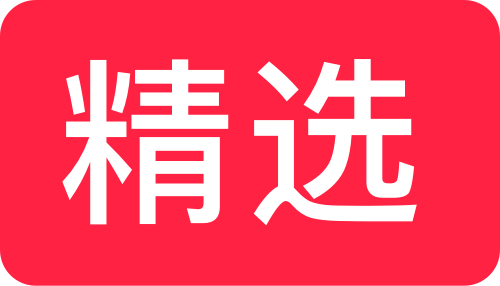
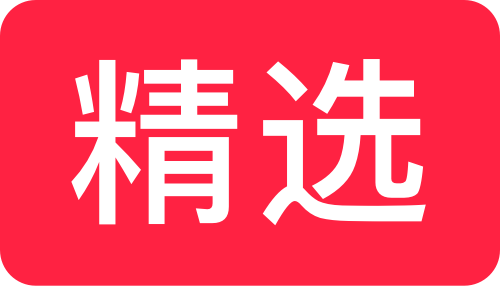
size

diff --git a/src/components/List/double-list.js b/src/components/List/double-list.js
@@ -105,7 +105,7 @@ const SingleItem = props => {
         {props.isTop && (
           <FastImg
             source={TopImage}
-            style={{width: 32, height: 16, position: 'absolute', top: 8, left: 8}}
+            style={{width: 30, height: 17, position: 'absolute', top: 8, left: 8}}
             resizeMode={'contain'}
           />
         )}
@@ -113,7 +113,7 @@ const SingleItem = props => {
         {!props.isTop && data.excellent && (
           <FastImg
             source={ExcellentImage}
-            style={{width: 32, height: 19, position: 'absolute', top: 8, left: 8}}
+            style={{width: 30, height: 17, position: 'absolute', top: 8, left: 8}}
             resizeMode={'contain'}
           />
         )}

diff --git a/src/components/List/comment-list.js b/src/components/List/comment-list.js
@@ -158,7 +158,7 @@ const cstyles = StyleSheet.create({
   numCount: {
     marginLeft: 5,
     textAlign: 'center',
-    fontSize: 14,
+    fontSize: 12,
     minWidth: 7,
   },
   comment: {
